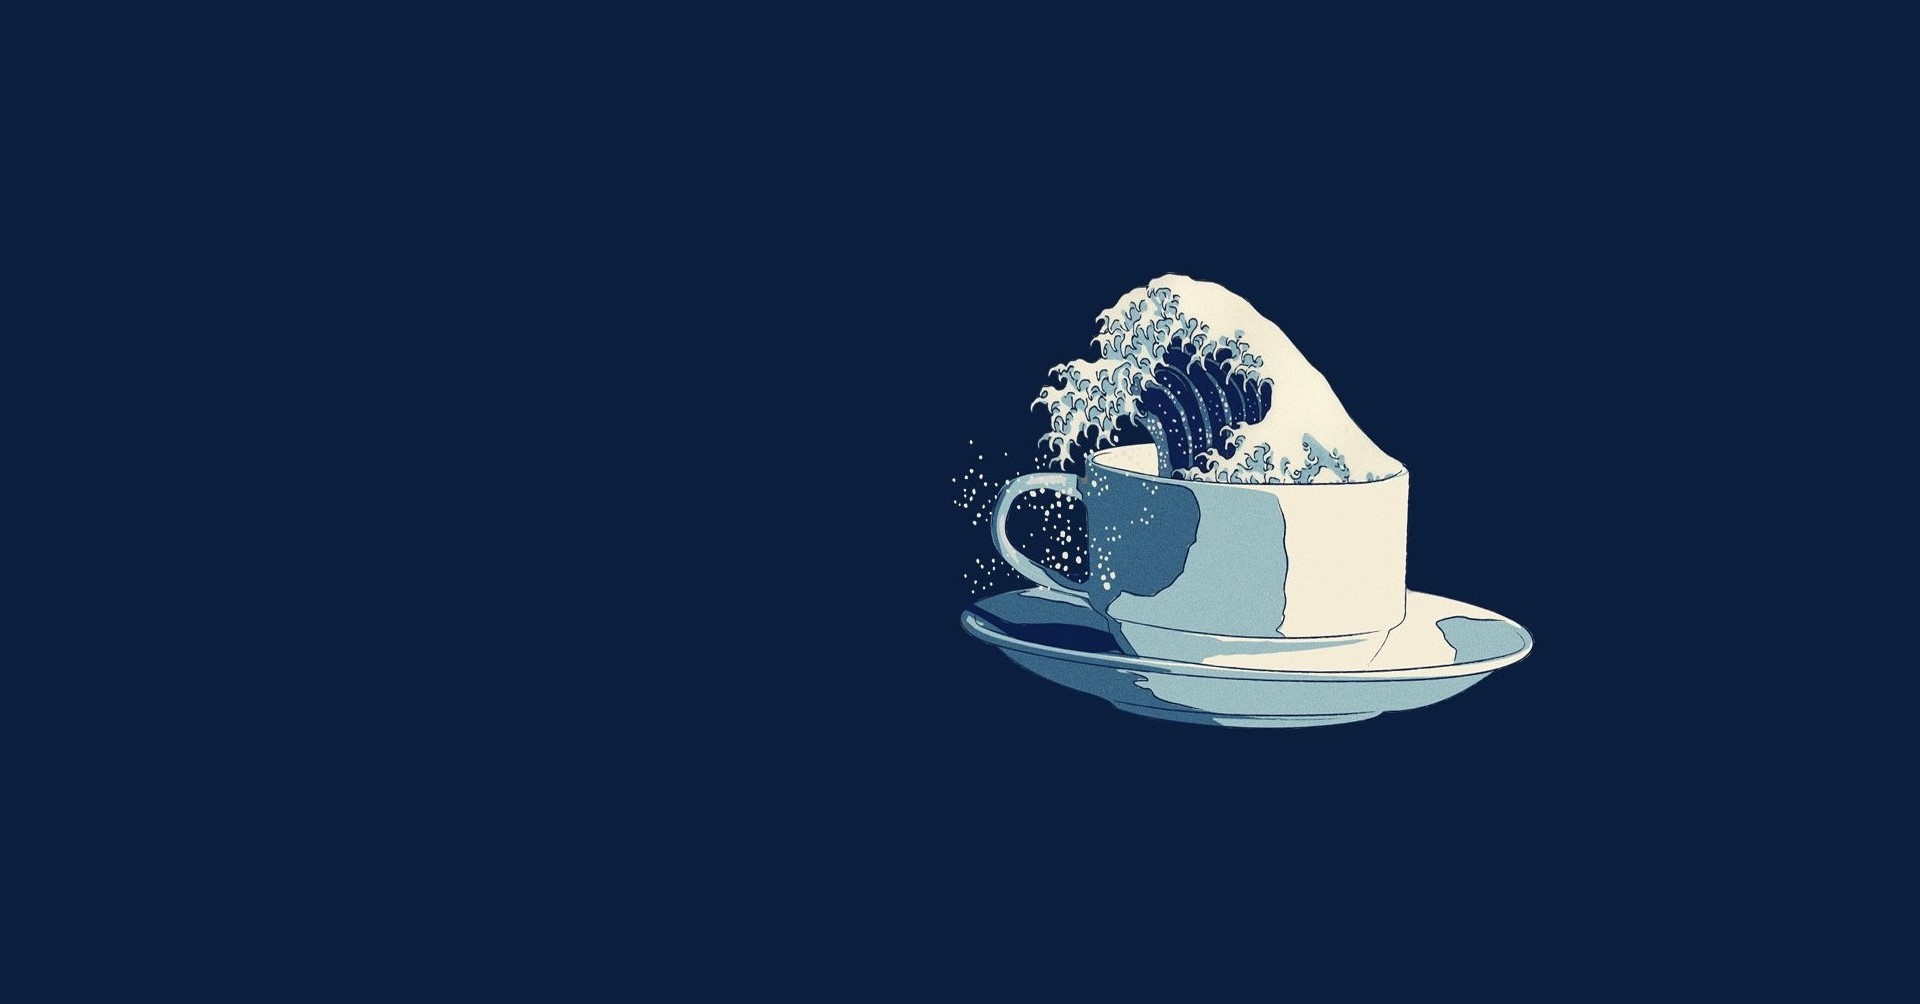
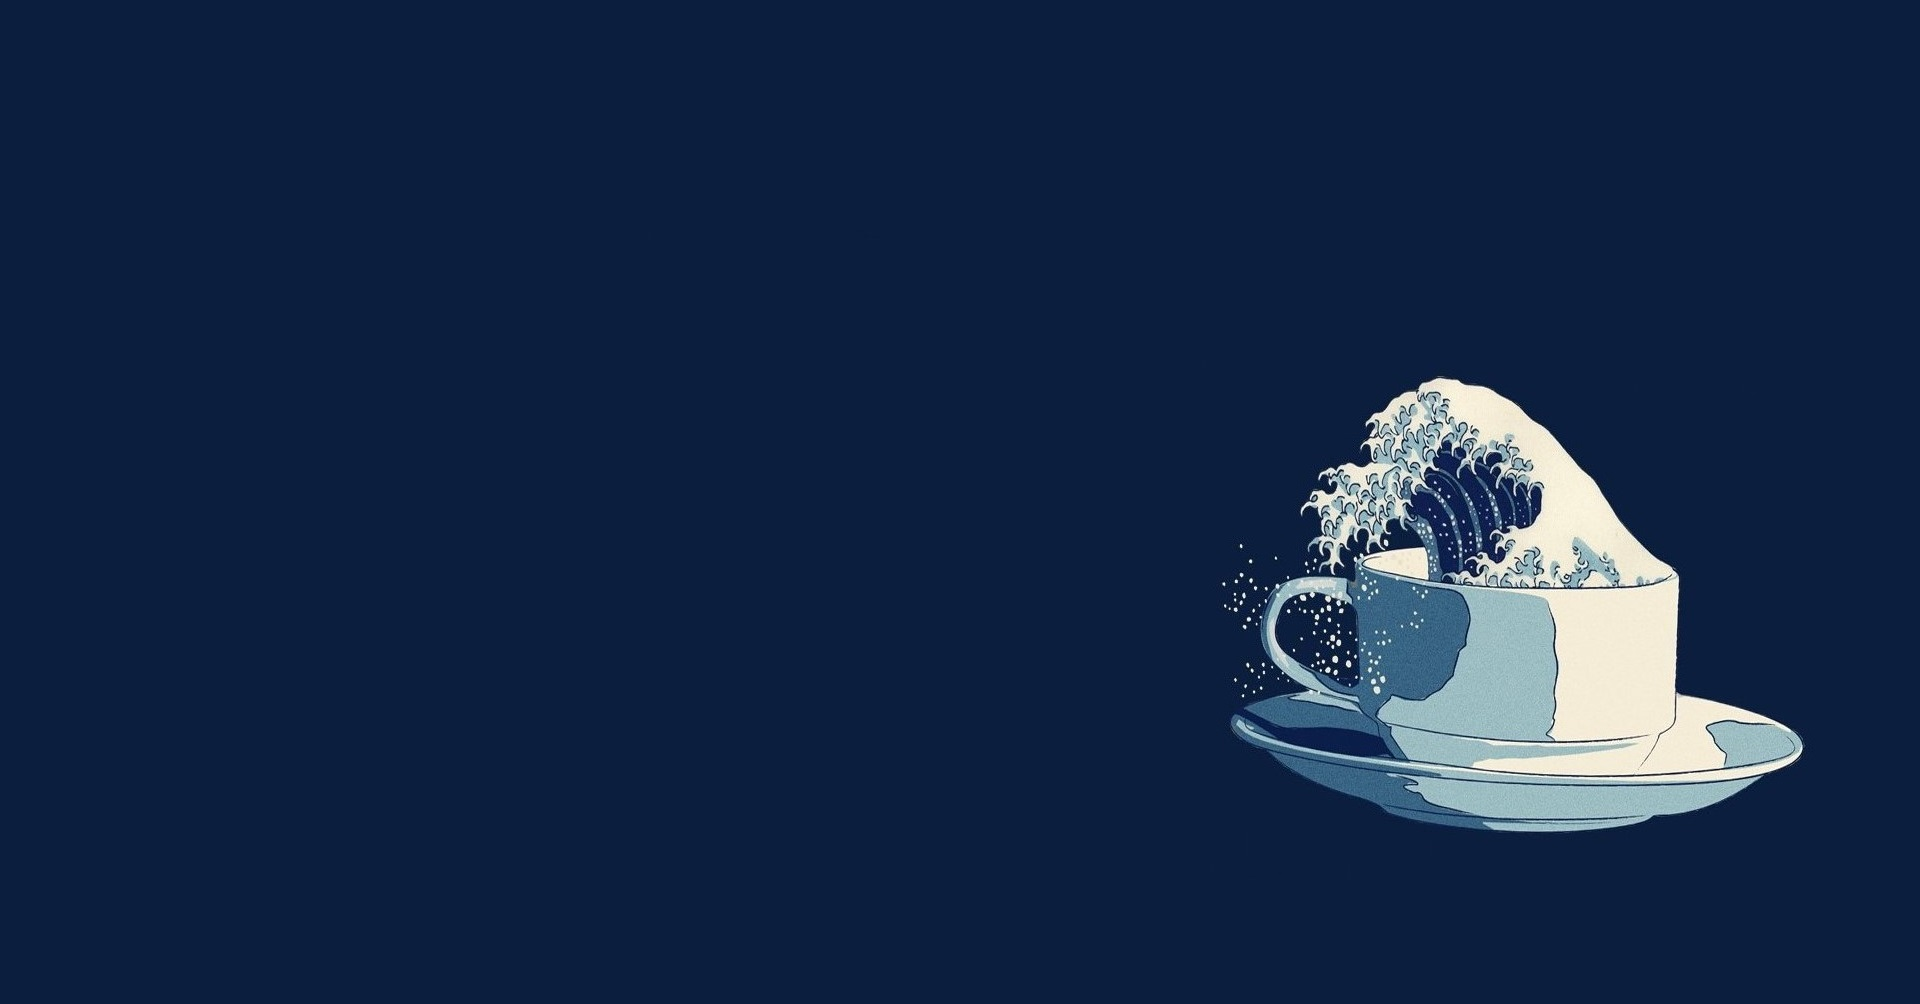
igm and size edit

Changed region(s): [[0.5, 0.2779, 0.9375, 0.8337]]

diff --git a/index.html b/index.html
@@ -48,7 +48,7 @@
 <div>
     <footer class="footer">
         <ul>
-            <li><a class="active" href="contact.html">Contact</a></li>
+            <li><a href="contact.html">Contact</a></li>
         </ul>
     </footer>
 </div>

diff --git a/style.css b/style.css
@@ -11,7 +11,7 @@ nav a {
     color: white;
     text-decoration: none;
     display: inline-block;
-    padding: 7px;
+    padding: 10px;
     font-family: Helvetica;
     font-size: smaller;
     
